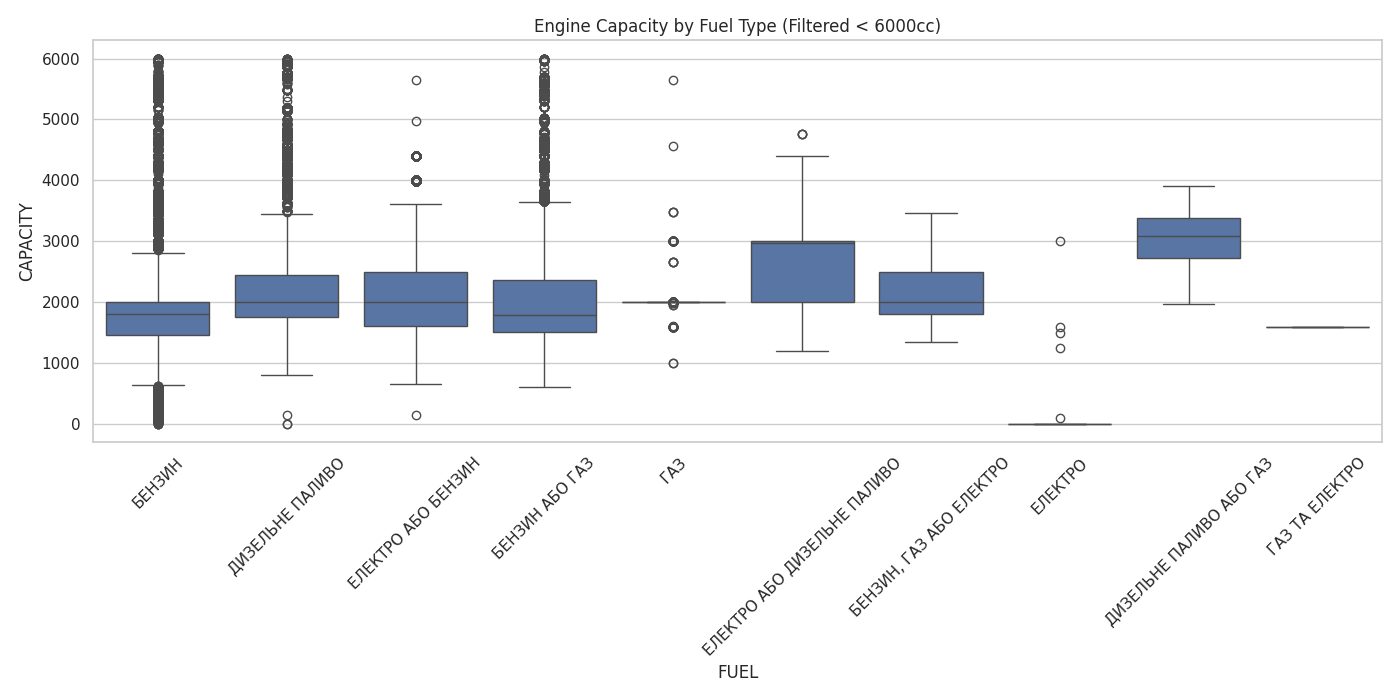
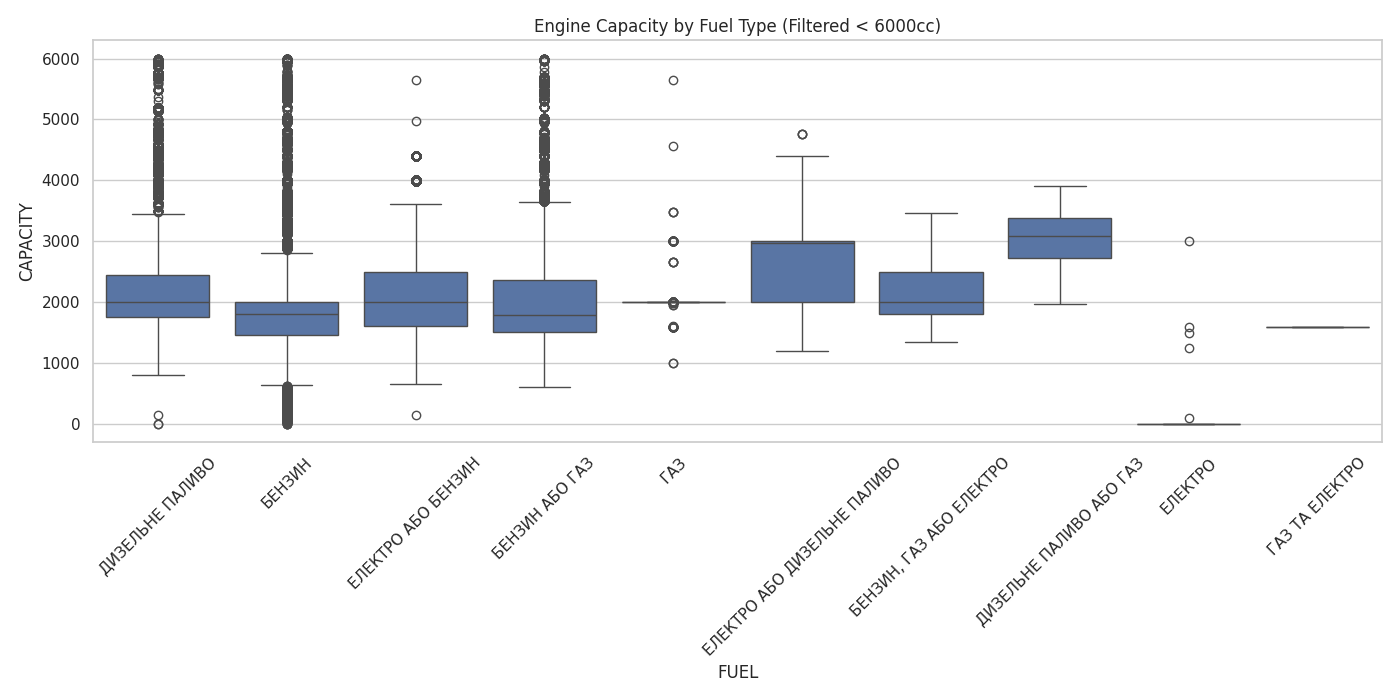
add web container

diff --git a/web/templates/index.html b/web/templates/index.html
@@ -1,0 +1,95 @@
+<!DOCTYPE html>
+<html lang="uk">
+<head>
+    <meta charset="UTF-8">
+    <meta name="viewport" content="width=device-width, initial-scale=1.0">
+    <title>Аналітика авторинку 2026</title>
+    <link href="https://cdn.jsdelivr.net/npm/bootstrap@5.3.0/dist/css/bootstrap.min.css" rel="stylesheet">
+    <style>
+        body { background-color: #f8f9fa; font-family: 'Segoe UI', Tahoma, Geneva, Verdana, sans-serif; }
+        .card { margin-bottom: 2rem; border: none; box-shadow: 0 0.5rem 1rem rgba(0,0,0,0.05); }
+        .header-section { background: linear-gradient(135deg, #1e3c72, #2a5298); color: white; padding: 3rem 0; margin-bottom: 2rem; }
+        .plot-img { max-width: 100%; height: auto; border-radius: 8px; border: 1px solid #ddd; }
+        .status-badge { font-size: 0.8rem; float: right; }
+    </style>
+</head>
+<body>
+
+<div class="header-section text-center">
+    <div class="container">
+        <h1>Аналітична платформа "Open Data Analytics"</h1>
+        <p class="lead">Результати обробки та візуалізації даних реєстру ТЗ</p>
+    </div>
+</div>
+
+<div class="container">
+    <div class="card">
+        <div class="card-body">
+            <span class="badge bg-success status-badge">{{ db_status }}</span>
+            <h2 class="card-title h4">Про проєкт</h2>
+            <p>Цей веб-інтерфейс демонструє результати роботи автоматизованого конвеєра даних. Дані завантажені з бази даних та оброблені в ізольованих Docker-контейнерах для забезпечення точності та відтворюваності результатів.</p>
+        </div>
+    </div>
+
+    <div class="row">
+        <div class="col-lg-6">
+            <div class="card h-100">
+                <div class="card-header bg-dark text-white">Перевірка якості (Quality Analysis)</div>
+                <div class="card-body">
+                    {% if quality %}
+                        <ul class="list-group list-group-flush">
+                            {% for conclusion in quality.conclusions %}
+                                <li class="list-group-item small">{{ conclusion }}</li>
+                            {% endfor %}
+                        </ul>
+                    {% else %}
+                        <p class="text-muted">Дані якості очікують обробки...</p>
+                    {% endif %}
+                </div>
+            </div>
+        </div>
+
+        <div class="col-lg-6">
+            <div class="card h-100">
+                <div class="card-header bg-primary text-white">Дослідження гіпотез (Research)</div>
+                <div class="card-body">
+                    {% if research %}
+                        <div class="mb-3">
+                            <strong>1. Концентрація ринку:</strong>
+                            <p class="small text-muted">{{ research.hypothesis_1.conclusion }}</p>
+                        </div>
+                        <div class="mb-3">
+                            <strong>2. Екологічність:</strong>
+                            <p class="small text-muted">{{ research.hypothesis_2.conclusion }}</p>
+                        </div>
+                        <div>
+                            <strong>3. Вік автопарку:</strong>
+                            <p class="small text-muted">{{ research.hypothesis_3.conclusion }}</p>
+                        </div>
+                    {% endif %}
+                </div>
+            </div>
+        </div>
+    </div>
+
+    <h3 class="my-4">Графічні результати аналізу</h3>
+    <div class="row">
+        {% for plot in plots %}
+        <div class="col-md-6 col-xl-4 mb-4">
+            <div class="card h-100">
+                <div class="card-body text-center">
+                    <img src="/plots/{{ plot }}" class="plot-img mb-2" alt="Graph">
+                    <p class="card-text small fw-bold text-uppercase text-secondary">{{ plot.split('.')[0].replace('_', ' ') }}</p>
+                </div>
+            </div>
+        </div>
+        {% endfor %}
+    </div>
+</div>
+
+<footer class="text-center py-5 mt-5 border-top text-muted">
+    <p>&copy; 2026 | Побудовано на базі Docker, Flask та PostgreSQL</p>
+</footer>
+
+</body>
+</html>

diff --git a/web/app.py b/web/app.py
@@ -1,0 +1,60 @@
+import os
+import json
+import pandas as pd
+from flask import Flask, render_template, send_from_directory
+from sqlalchemy import create_engine
+
+app = Flask(__name__)
+
+DB_HOST = os.getenv("DB_HOST", "db")
+DB_PORT = os.getenv("DB_PORT", "5432")
+DB_NAME = os.getenv("DB_NAME", "analytics_db")
+DB_USER = os.getenv("DB_USER", "user")
+DB_PASSWORD = os.getenv("DB_PASSWORD", "password")
+TABLE_NAME = os.getenv("TABLE_NAME", "dataset")
+CSV_PATH = os.getenv("CSV_PATH", "/app/data/dataset.csv")
+
+def get_db_data():
+    try:
+        if os.path.exists(CSV_PATH):
+            df = pd.read_csv(CSV_PATH, nrows=5, low_memory=False)
+            return f"CSV файл знайдено. Поля: {', '.join(df.columns[:5])}..."
+    except Exception as e:
+        return f"Помилка завантаження даних з БД: {e}"
+
+def load_json(filename):
+    path = f"/app/reports/{filename}"
+    if os.path.exists(path):
+        with open(path, 'r', encoding='utf-8') as f:
+            return json.load(f)
+    return None
+
+@app.route('/')
+def index():
+    db_table = get_db_data()
+    quality_report = load_json('quality_report.json')
+    research_report = load_json('research_report.json')
+    viz_report = load_json('visualization_summary.json')
+
+    plots = []
+    if os.path.exists("/app/plots"):
+        plots = [f for f in os.listdir("/app/plots") if f.endswith(('.png', '.jpg'))]
+        plots.sort()
+
+    return render_template('index.html',
+                           table=db_table,
+                           quality=quality_report,
+                           research=research_report,
+                           viz=viz_report,
+                           plots=plots)
+
+@app.route('/plots/<filename>')
+def get_plot(filename):
+    return send_from_directory("/app/plots", filename)
+
+@app.route("/health")
+def health():
+    return {"status": "ok"}, 200
+
+if __name__ == "__main__":
+    app.run(host="0.0.0.0", port=8000)
